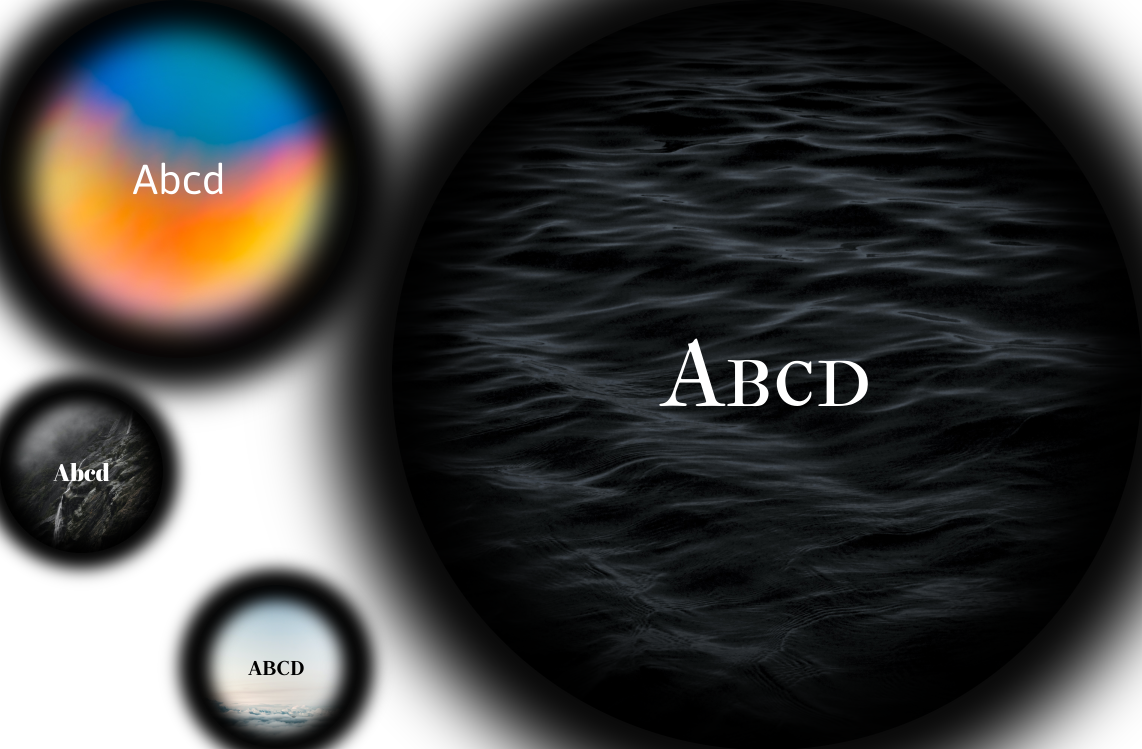
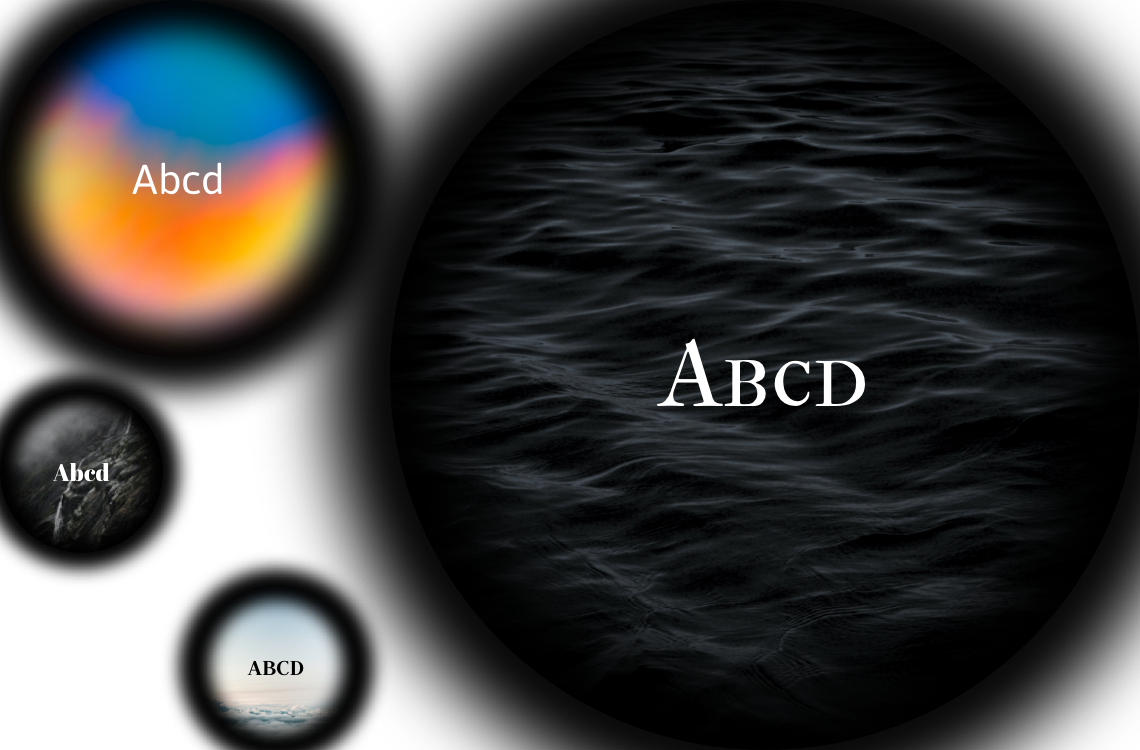
img update

Changed region(s): [[0.5833, 0.4606, 0.7675, 0.5527], [0.2149, 0.8598, 0.2763, 0.9826], [0.0614, 0.6142, 0.1228, 0.6756]]

diff --git a/index.html b/index.html
@@ -96,6 +96,10 @@
 
                     <div class="col_12">
                         <img src="img/rounds.png" class="rounds" alt="">
+
+                        <img srcset="img/rounds.png,
+                                     img/rounds@2x.png 2x,
+                                     img/rounds@3x.png 3x" alt="" class="rounds">
                     </div>
                 </div>  
             </div>  
